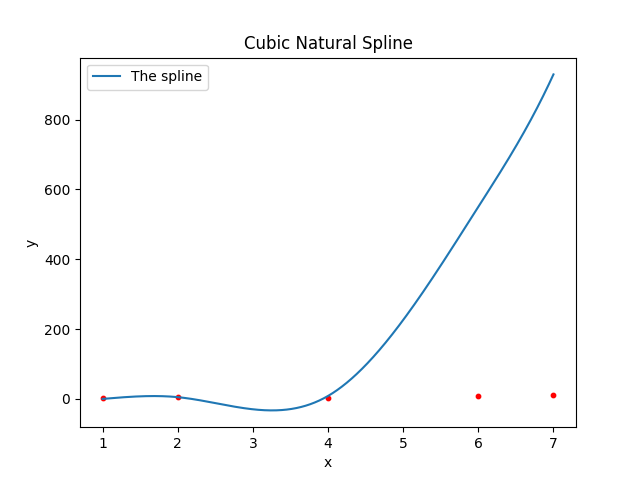
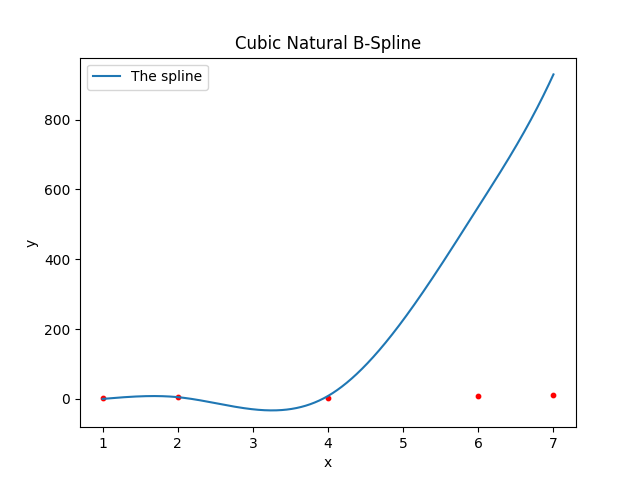
finally_final

Changed region(s): [[0.375, 0.0625, 0.6562, 0.125]]

diff --git a/Project/doc/design.tex b/Project/doc/design.tex
@@ -85,6 +85,72 @@ In this project, the file structure is shown as follows:
   \item \verb|Makefile| -- the makefile used to compile, run the project and generate the documents.
 \end{itemize}
 
+\section{Header Files}
+
+The header files used in the project are listed as follows:
+\begin{itemize}
+  \item \verb|Bspline.h| -- implements the B-spline.
+  \item \verb|Polynomial.h| -- implements the polynomials used in the splines.
+  \item \verb|ppForm.h| -- implements the pp-form splines.
+  \item \verb|Solving_Equation.h| -- implements the solving process of the linear system of equations.
+  \item \verb|Spline.h| -- implements the base class of the splines.
+\end{itemize}
+
+\section{The Interface of Classes}
+
+\subsection{Bspline.h}
+
+\begin{enumerate}
+  \item \verb|Bspline(int nn, int NN, std::vector<std::pair<double, double>> knots_in, std::vector<double> bc = {})| -- constructor of the B-spline.
+  \item \verb|void construct_basis_polynomials(int i, int ni)| -- constructs the basis polynomials $B_{ni}^i$.
+  \item \verb|Spline linear_Bspline()| -- constructs the linear B-spline.
+  \item \verb|Spline cardinal_quad_Bspline()| -- constructs the cardinal quadratic B-spline.
+  \item \verb|Spline complete_cubic_Bspline()| -- constructs the complete cubic B-spline.
+  \item \verb|Spline natural_cubic_Bspline()| -- constructs the natural cubic B-spline.
+  \item \verb|Spline periodic_cubic_Bspline()| -- constructs the periodic cubic B-spline.
+  \item \verb|Spline arbitrary_order_Bspline(double a[])| -- constructs the arbitrary order B-spline according to the given coefficients $a_i$.
+\end{enumerate}
+
+\subsection{Polynomial.h}
+
+\begin{enumerate}
+  \item \verb|Polynomial(int de, std::vector<double> co): degree(de), coeffs(co)| -- constructor of the polynomial.
+  \item \verb|double operator() (double x) const| -- evaluates the polynomial at $x$.
+  \item \verb|double derivative(double x) const| -- evaluates the derivative of the polynomial at $x$.
+  \item \verb|Polynomial operator* (const Polynomial& other) const| -- computes the product of two polynomials.
+  \item \verb|Polynomial operator+ (const Polynomial& other) const| -- computes the sum of two polynomials.
+  \item \verb|void show() const| -- prints the polynomial.
+\end{enumerate}
+
+\subsection{ppForm.h}
+
+\begin{enumerate}
+  \item \verb|PPForm(int nn, int kk, int NN, std::vector<std::pair<double, double>> knots_in, std::vector<double> bc = {})| -- constructor of the pp-form spline.
+  \item \verb|Spline linear_splines()| -- constructs the linear pp-form splines.
+  \item \verb|double get_lambda(int i)| -- returns the $\lambda_i$ of the pp-form spline.
+  \item \verb|double get_mu(int i)| -- returns the $\mu_i$ of the pp-form spline.
+  \item \verb|double get_K(int i)| -- returns the $K_i$ of the pp-form spline.
+  \item \verb|std::vector<Polynomial> construct_polynomials(double *solution)| -- constructs the polynomials of the pp-form spline.
+  \item \verb|Spline complete_cubic_ppform()| -- constructs the complete cubic pp-form spline.
+  \item \verb|Spline natural_cubic_ppform()| -- constructs the natural cubic pp-form spline.
+  \item \verb|Spline periodic_cubic_ppform()| -- constructs the periodic cubic pp-form spline.
+\end{enumerate}
+
+\subsection{Solving\_Equation.h}
+
+\begin{enumerate}
+  \item \verb|EquationSolver(int n, double *a, double *rhs): N(n), A(a), b(rhs)| -- constructor of the equation solver.
+  \item \verb|double* solve()| -- solves the linear system of equations.
+\end{enumerate}
+
+\subsection{Spline.h}
+
+\begin{enumerate}
+  \item \verb|Spline(int NN, std::vector<std::pair<double, double>> knots_in, std::vector<Polynomial> s_in)| -- constructor of the spline.
+  \item \verb|void generate_data()| -- generates the sample data.
+  \item \verb|void show_polynomials()| -- prints the polynomials of the spline.
+\end{enumerate}
+
 \section{Splines}
 
 \subsection{Introduction}

diff --git a/Project/doc/report.tex b/Project/doc/report.tex
@@ -151,4 +151,24 @@ We have an example for it, and the data is in the \verb|data/BSpline_arbitrary_o
   \caption{B-spline of order 3}
 \end{figure}
 
+\section{Task D}
+
+In this section, we analyse the error of cardinal B-spline. Define
+\begin{equation}
+	E_S(x) = |S(x) - f(x)|,
+	\label{eq:error}
+\end{equation}
+and we consider the output values of $E_S(x)$ at the sites $x = -3.5, -3, -0.5, 0, 0.5, 3, 3.5$.
+
+We have the result that
+\begin{itemize}
+	\item $x = -3.5$, the error $= 0.0902999$,
+	\item $x = -3$, the error $= 0.122974$,
+	\item $x = -0.5$, the error $= 0.197984$,
+	\item $x = 0$, the error $= 0.28128$,
+	\item $x = 0.5$, the error $= 0.389075$,
+	\item $x = 3$, the error $= 0.160731$,
+	\item $x = 3.5$, the error $= 6.0788$.
+\end{itemize}
+
 \end{document}
